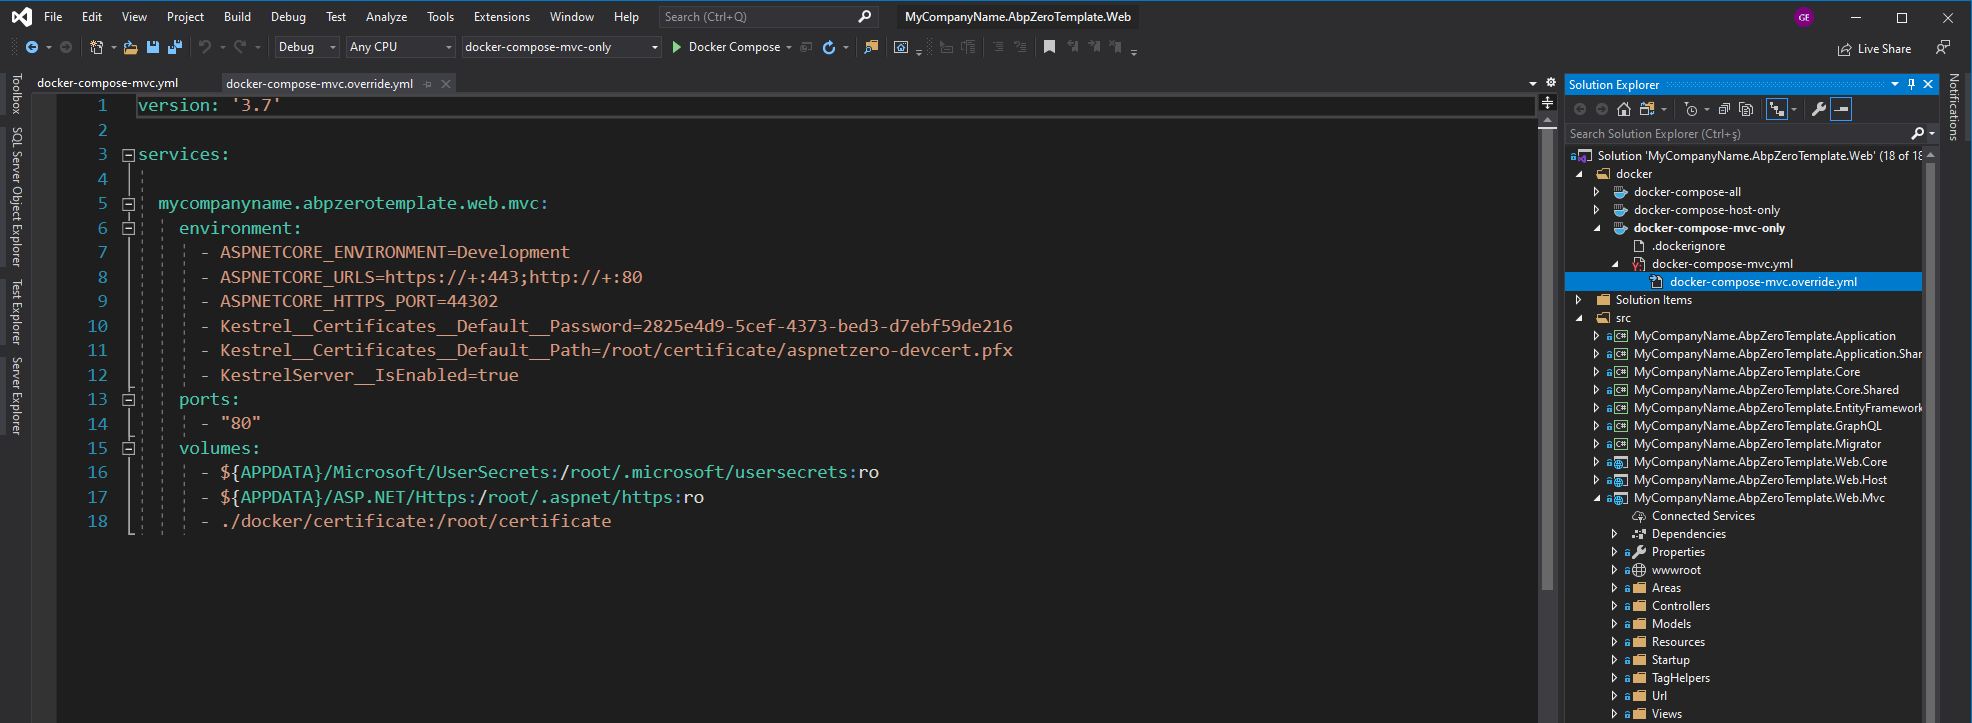
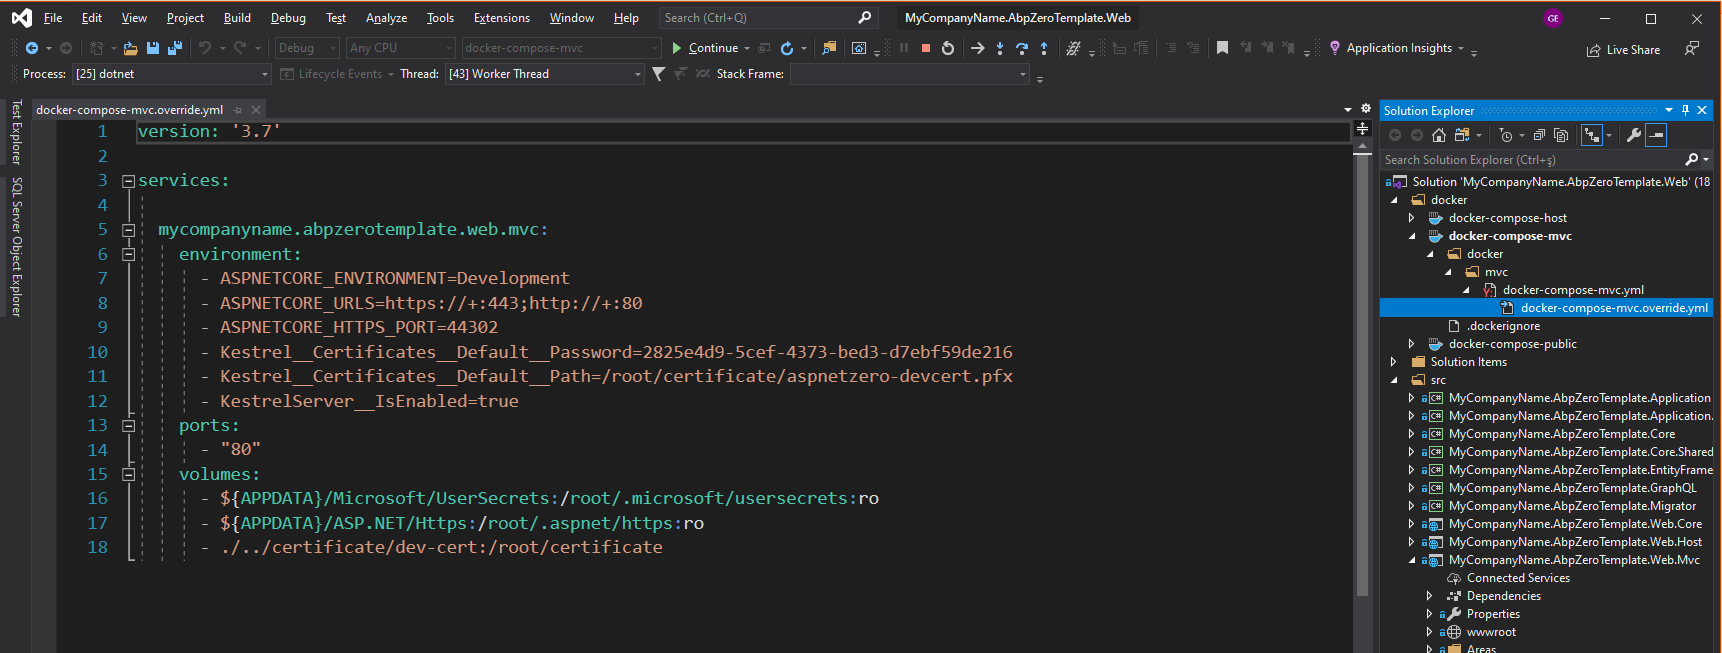
images and documentation update
Updated based on docker refactoring.

Changed region(s): [[0.0, 0.0, 1.0, 1.0], [0.0308, 0.827, 0.0616, 0.8576]]

diff --git a/docs/en/Development-Mvc-Core-Docker.md b/docs/en/Development-Mvc-Core-Docker.md
@@ -10,7 +10,7 @@ To get started with using docker for development, there are some prerequisites.
 
 Infrastructure contains **mssql-server-linux** as a replacement for your LocalDb and **redis** server for your applications.
 
-In your `aspnet-core\docker\mvc\` folder, you will find **run-infrastructure.ps1** file which uses **docker-compose.infrastructure.yml** file to setup your infrastructure. Running the shell script should have a similar output like below.
+In your `aspnet-core\docker\infrastructure\` folder, you will find **run-infrastructure.ps1** file which uses **docker-compose.infrastructure.yml** file to setup your infrastructure. Running the shell script should have a similar output like below.
 
 <img src="images/development-docker-mvc/docker-infrastructure-run.png" alt="docker-infrastructure-run"/>
 
@@ -20,7 +20,7 @@ After running the script, powershell will be hanging (non interactive) for you t
 
 Your applications need certificate to enable https. Normally Visual Studio creates this certificate for you when you run your application for the first time however sometimes it doesn't when docker is involved. To overcome the issue, we create our own self-signed certificate for development.
 
-In your `aspnet-core\docker\mvc\` folder, you will find **create-certificate.ps1** file to create the certificate. After running the shell script, you should have a similar output like below.
+In your `aspnet-core\docker\certificate\` folder, you will find **create-certificate.ps1** file to create the certificate. After running the shell script, you should have a similar output like below.
 <img src="images/development-docker-mvc/docker-create-dev-certificate.png" alt="docker-create-dev-certificate"/>
 
 ### 3. Running the migrator
@@ -35,17 +35,17 @@ In your `aspnet-core\docker\mvc\` folder, you will find **run-migrator** file to
 
 In your applications **.Web** solution under **docker folder**, set as startup project you want to debug. Visual studio will instantly begin building the container. **Building containers may take some time** for the first time since it will be downloading required base images.
 
-Below you can see **docker-compose-mvc-only** running:
+Below you can see **docker-compose-mvc** debugging:
 
 <img src="images/development-docker-mvc/docker-mvc-running.png" alt="docker-mvc-running"  style="zoom:100%;" />
 
 There are three docker solutions you can set as startup project to run;
 
-1. **docker-compose-all:** Runs Web.Host, Web.MVC and Web.Public projects together.
-2. **docker-compose-host-only:** Runs only Web.Host project.
-3. **docker-compose-mvc-only:** Runs only Web.MVC project.
+1. **docker-compose-host:** Runs Web.Host project.
+2. **docker-compose-mvc:** Runs only Web.Mvc project.
+3. **docker-compose-public:** Runs Web.Mvc and Web.Public projects together.
 
-Each docker-compose files have override.yml files to set the other environments like certification informations, docker volumes or AspnetCore Environment.
+Each docker-compose files have override.yml files to set the other environments like certification informations, docker volumes or AspnetCore environment.
 
 <img src="images/development-docker-mvc/docker-override-configuration.png" alt="docker-override-configuration"  style="zoom:100%;" />
 
@@ -55,10 +55,10 @@ If you want to change the default connection string when running on containers; 
 
 <img src="images/development-docker-mvc/docker-cs-configuration.png" alt="docker-cs-configuration"  style="zoom:100%;" />
 
-This environment variable overrides the connection string which has been set it appsettings.json. This way you can use both development environments without mixing up the configurations.
+This environment variable overrides the connection string which has been set in appsettings.json. This way you can use both development environments without mixing up the configurations.
 
-In some cases, you may get **container conflict errors** when switching between docker projects; like debugging **docker-compose-mvc-only** first then start debugging **docker-compose-all** after stopping the first one.
+In some cases, you may get **container conflict errors** when switching between docker projects; like debugging **docker-compose-mvc** first then start debugging **docker-compose-public** after stopping the first one.
 
 <img src="images/development-docker-mvc/docker-container-conflict.png" alt="docker-cs-configuration"  style="zoom:100%;" />
 
-This occurs because the mvc container is still alive even if you stop debugging. To avoid container conflicts, you need to **Clean** the solution (right click to docker project and clean option) to remove the container completely before running the **docker-compose-all** which uses common containers.
+This occurs because the mvc container is still alive even if you stop debugging. To avoid container conflicts, you need to **Clean** the solution (right click to docker project and clean option) to remove the container completely before running the **docker-compose-public** which uses common containers like mvc container.
